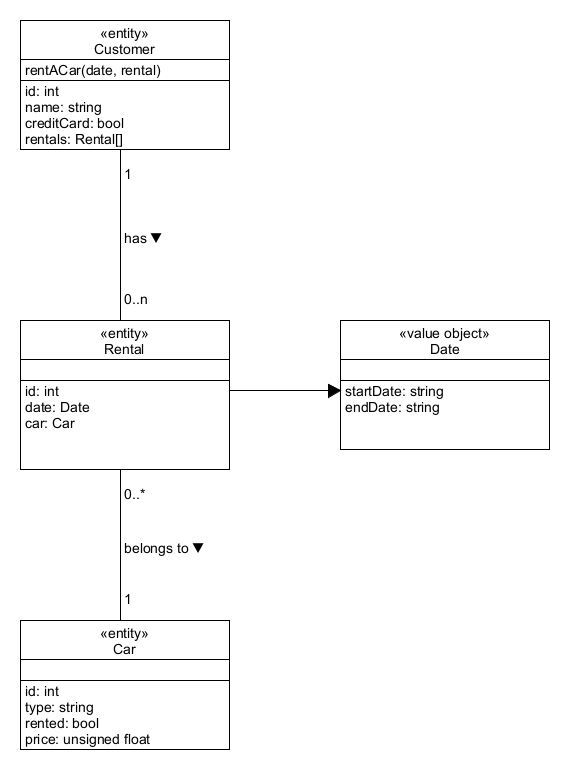
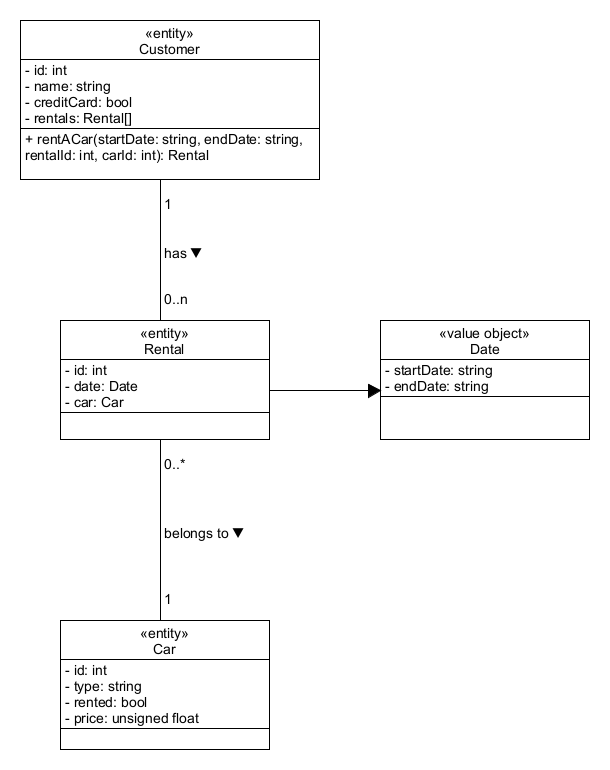
Update HelloWorld task description and add use case diagram for CarRental tabellen in 3.2 eingefügt

diff --git a/chapters/2_golang_tasks/3.2_design_of_data_and_functionality.tex b/chapters/2_golang_tasks/3.2_design_of_data_and_functionality.tex
@@ -54,37 +54,228 @@ The following attributes are added to the entities:
     \label{fig:extendedEntityDiagram}
 \end{figure}
 
-%//TODO Signatur anpassen, wird funktionlität benötigt?
 \subsubsection*{Adding the Functionality as a Method}
-The chosen signature of the funcion is \texttt{rentACar(date, rental)}.
+The chosen signature of the funcion is \texttt{rentACar(startDate: string, endDate: string, rentalId: int, carId: int): Rental}.
+
 The method works as follows:
-\begin{enumerate}
-    \item The function checks, if the credit card is valid. If not, the function aborts.
-    \item The date object is created with the given start and end date and is given to the function.
-    \item The given rental object is assigned according to the chosen car / rental.
-    \item The algorithm checks, if the car assigned to the rental is available. If not, the function aborts.
-    \item The car is marked as rented.
-    \item The date object is assigned to the rental.
-    \item The rental object is linked to the customer.
-    \item All changes are saved to the objects.
-\end{enumerate}
+First, the function checks if the credit card of the customer is valid.
+If this is not the case, the function aborts.
+Then, the date object is created with the given start and end date.
+The algorithm checks if the car is available for the given time period.
+If this is not the case, the function aborts.
+A new rental object is created with an unique id and is assigned the date object.
+The car is marked as rented and linked to the rental object.
+The rental object is linked to the customer.
+In the end, all changes are saved to the objects and the rental object is returned.
 
 \subsection{Excercise CarRentalExampleData}
 \label{sec:exercise_car_rental_example_data}
 \subsubsection*{Analyze Alice's Rental Request}
-Yes, the request is successful for the following reasons:
-%//TODO Fließtext statt Stichpunktef
-\begin{itemize}
-    \item The car exists
-    \item The car is not rented for the specified time period
-    \item Alice is not registered yet, but will be added to the customers table
-\end{itemize}
+Yes, the request is successful for a number of reasons.
+
+First, the car exists so it can be rented.
+Next, the car is not rented for the specified time period.
+The only rental of the car is from 1.3.00 to 15.03.2000 by Max.
+Finally, Alice is not registered yet, but will be added to the customers table.
+
 Therefore the request is successful and the car is rented to Alice.
 
 \subsubsection*{Add Further Rentals}
-%//TODO Tabellen aus der Aufgabenstellung übernehmen und mit den hinzugefügten Daten füllen
--- Does this need to be done? --
+This section contains the tables for the customers, cars and rentals as specified in the task sheet.
+The task is to add further rentals to the already existing data.
+One of the rentals should be a non-conflicting rental, the other one should be conflicting.
+
+The following data is added to the tables:
+First, Rental6 is added to the rentals table in \autoref{tab:carRentalExampleDataRentals}.
+It is a non-conflicting rental of Car1 by Max from 1.1.05 to 2.2.05.
+Next, Rental7 is added to the rentals table.
+It is a conflicting rental of Car5 by Bob from 3.1.00 to 10.1.00.
+Due to this rental overlapping with Rental5, Rental7 is not a valid rental.
+
+\begin{table}[H]
+    \centering
+    \caption{Customers Table}
+    \label{tab:carRentalExampleDataCustomers}
+    \begin{tabular}{|p{2cm}|p{2cm}|}
+        \hline
+        \multicolumn{2}{|c|}{\textbf{Customers}} \\
+        \hline
+        \textbf{ID} & \textbf{Name} \\
+        \hline
+        Cus1 & Max \\
+        Cus2 & Bob \\
+        Cus3 & Simon \\
+        \hline
+    \end{tabular}
+\end{table}
+
+\begin{table}[H]
+    \centering
+    \caption{Cars Table}
+    \label{tab:carRentalExampleDataCars}
+    \begin{tabular}{|p{2cm}|p{3cm}|}
+        \hline
+        \multicolumn{2}{|c|}{\textbf{Cars}} \\
+        \hline
+        \textbf{ID} & \textbf{Type} \\
+        \hline
+        Car1 & VW ID.2 \\
+        Car2 & Tesla Model 3 \\
+        Car3 & Seat Leon \\
+        Car4 & Fiat500e \\
+        Car5 & Audi A3 \\
+        \hline
+    \end{tabular}
+\end{table}
+
+\begin{table}[H]
+    \centering
+    \caption{Rentals Table}    
+    \label{tab:carRentalExampleDataRentals}
+    \begin{tabular}{|p{2cm}|p{2cm}|p{2cm}|p{2cm}|p{3cm}|}
+        \hline
+        \multicolumn{5}{|c|}{\textbf{Rentals}} \\
+        \hline
+        \textbf{ID} & \textbf{StartDate} & \textbf{EndDate} & \textbf{CardID} & \textbf{CustomerID} \\        
+        \hline
+        Rental1 & 1.3.00 & 15.3.00 & Car1 & Cus1 \\
+        Rental2 & 3.2.00 & 5.2.00 & Car2 & Cus2 \\
+        Rental3 & 5.1.00 & 1.6.00 & Car3 & Cus2 \\
+        Rental4 & 7.2.00 & 25.3.00 & Car4 & Cus3 \\
+        Rental5 & 3.1.00 & 5.2.00 & Car5 & Cus3 \\
+        Rental6 & 1.1.05 & 2.2.05 & Car1 & Cus1 \\
+        Rental7 & 3.1.00 & 10.1.00 & Car5 & Cus2 \\
+        \hline
+    \end{tabular}
+\end{table}
 
 \subsubsection*{Write YAML Code}
-%//TODO Tabelle von oben übernehmen und in YAML umschreiben
--- Still needs to be done --
+The following YAML-code represents the the data from the tables above.
+YAML is a human-readable data serialization language, similar to JSON.
+The notation specifies an object and the according attributes, storing the data in a key-value format.
+
+\begin{lstlisting}[
+    style=kit-cm,
+    caption={YAML Code representing the Customers Table},
+    label={lst:carRentalExampleDataYaml}
+]
+- id:   Cus1
+  name: Max
+
+- id:   Cus2
+  name: Bob
+  
+- id:   Cus3
+  name: Simon
+\end{lstlisting}
+
+\begin{lstlisting}[
+    style=kit-cm,
+    caption={YAML Code representing the Cars Table},
+    label={lst:carRentalExampleDataYamlCars}
+]
+- id:   Car1
+  type: VW ID2
+
+- id:   Car2
+  type: Tesla Model 3
+
+- id:   Car3
+  type: Seat Leon
+
+- id:   Car4
+  type: Fiat 500e
+
+- id:   Car5
+  type: Audi A3
+\end{lstlisting}
+
+\begin{lstlisting}[
+    style=kit-cm,
+    caption={YAML Code representing the Rentals Table},
+    label={lst:carRentalExampleDataYamlRentals}
+]
+-   id: Rental1
+    startdate:
+        day:    1
+        month:  3
+        year:   2000
+    enddate:
+        day:    15
+        month:  3
+        year:   2000
+    carid:      Car1
+    customerid: Cus1
+
+-   id:         Rental2
+    startdate:
+        day:    3
+        month:  2
+        year:   2000
+    enddate:
+        day:    5
+        month:  2
+        year:   2000
+    carid:      Car2
+    customerid: Cus2
+
+-   id:         Rental3
+    startdate:
+        day:    5
+        month:  1
+        year:   2000
+    enddate:
+        day:    1
+        month:  6
+        year:   2000
+    carid:      Car3
+    customerid: Cus2
+
+-   id:         Rental4
+    startdate:
+        day:    7
+        month:  2
+        year:   2000
+    enddate:
+        day:    25
+        month:  3
+        year:   2000
+    carid:      Car4
+    customerid: Cus3
+
+-   id:         Rental5
+    startdate:
+        day:    3
+        month:  1
+        year:   2000
+    enddate:
+        day:    5
+        month:  2
+        year:   2000
+    carid:      Car5
+    customerid: Cus3
+
+-   id:         Rental6
+    startdate:
+        day:    1
+        month:  1
+        year:   2005
+    enddate:
+        day:    1
+        month:  1
+        year:   2000
+    carid:      Car6
+    customerid: Cus4
+
+-   id:         Rental7
+    startdate:
+        day:    3
+        month:  1
+        year:   2000
+    enddate:
+        day:    5
+        month:  2
+        year:   2000
+    carid:      Car5
+    customerid: Cus4
+\end{lstlisting}

diff --git a/chapters/2_golang_tasks/3.1_requirements_analysis.tex b/chapters/2_golang_tasks/3.1_requirements_analysis.tex
@@ -1,11 +1,16 @@
 \subsection{Excercise UseCaseDiagram CarRental}
 \label{sec:exercise_use_case_diagram_car_rental}
+The general functionality of the application CarRental is outlined by Alice's Car Rental story.
+It provides a general overview of the application and the user flow of registering and renting a car.
+
+By using the story, the use cases and actors can be derived.
+The following tasks are based on the story and help deriving the use cases, actors and services modelled in the use case diagram.
+
 \subsubsection*{Derive Use Cases and Actors}
 Goal of this task is to find four use cases and one actor according to the given story "Alice's Car Rental".
 
-% //TODO: rausfinden, wie man aus der Aufgabenstellung zitiert
 % //TODO: Herleitung der vier Use Cases beschreiben
-Listing \autoref{lst:car_rental_use_case_1} was derived from the story given in ... .
+\autoref{lst:car_rental_use_case_1} was derived from the story given in ... .
 
 \begin{lstlisting}[
     caption={Use Case 1: "Rent a Car"},
@@ -163,7 +168,7 @@ The installation of the standalone version of UMLet is carried out as follows:
     \item Run the executable file \texttt{umlet.sh} in the extracted folder
 \end{enumerate}
 
-A screendump of the folder structure of the extracted archive is shown in figure \autoref{fig:umlet_folder_structure}.
+A screendump of the folder structure of the extracted archive is shown in \autoref{fig:umlet_folder_structure}.
 \begin{figure}
     \centering
     \includegraphics[width=0.8\textwidth]{figures/goLang/carRental/carRental_umletInstallation.png}
@@ -171,9 +176,22 @@ A screendump of the folder structure of the extracted archive is shown in figure
     \label{fig:umlet_folder_structure}
 \end{figure}
 
-The use case diagram is shown in figure \autoref{fig:car_rental_use_case_diagram}.
+The use case diagram is shown in \autoref{fig:car_rental_use_case_diagram}.
 
-% //TODO services erklären und auf use case diagramm eingehen
+It uses so called services to abstract the implementation of the application.
+By providing services, the implementation of the application can be changed without changing the use cases.
+
+The registration service is used to register a customer.
+It provides the user interface and structures to interact with the customer.
+The registration service itself uses the authentification service to provide the customer with a secure way to authenticate himself, for example by two-factor authentification.
+It also uses the cancellation service to cancel the registration if the customer wants to do so.
+
+The rental service is used to rent a car.
+It interacts with the location service, providing the location of the customer and the cars and displaying it on a map.
+It also uses the cancellation service to cancel the rental if the customer wants to do so.
+The car usage service is used to provide the customer with information about the car, for example if the car is available, the current fuel level or the current mileage.
+
+The services' interactions are displayed in the use case diagram by means of the arrows and the according labels.
 \begin{figure}[H]
     \centering
     \includegraphics[width=0.8\textwidth]{figures/goLang/carRental/carRental_umlDiagram.png}
@@ -184,16 +202,25 @@ The use case diagram is shown in figure \autoref{fig:car_rental_use_case_diagram
 \subsection{Excercise UseCase RentACar}
 \label{sec:exercise_use_case_rent_a_car}
 \subsubsection*{Alice's Car Rental}
-% //TODO: Einleitung schreiben
-% //TODO: Alternative Flows auflisten
+This task aims to complete the use-case story "Rent a Car" for Alice.
+This is done by adding the given data from the story to the use-case story.
+
+The completed use-case story is shown in \autoref{lst:alices_car_rental_use_case_1}.
+
 \begin{lstlisting}[
-    style=kit-cm,
-    caption={Alice's Version of Use Case 1},
-    label={lst:alices_car_rental_use_case_1},
+style=kit-cm,
+caption={Alice's Version of Use Case 1},
+label={lst:alices_car_rental_use_case_1},
 ]
-    1. Alice calls the application CarRental.
-    2. Alice enters the 01.01.00 as a start date and 02.02.00 as the end date as the rental period
-    3. The system shows a list with the cars which are available at the selected rental period
-    4. Alice selects a VW ID.2
-    5. The system shows a rental confirmation and stores the rental
+1. Alice calls the application CarRental.
+2. Alice enters the 01.01.00 as a start date and 02.02.00 as the end date as the rental period
+3. The system shows a list with the cars which are available at the selected rental period
+4. Alice selects a VW ID.2
+5. The system shows a rental confirmation and stores the rental
+
+Alternative flows:
+3a. The VW ID.2 is not available at the selected time interval
+    3a1. The system shows a message that the VW ID.2 is not available at the selected time interval and the flow continues from step 2 or terminates
+4a. Alice does not want to rent the VW ID.2
+    4a1. The flow terminates
 \end{lstlisting}

diff --git a/chapters/2_golang_tasks/2.3_basic_hello_world_program.tex b/chapters/2_golang_tasks/2.3_basic_hello_world_program.tex
@@ -1,7 +1,11 @@
 \subsection{Excercise HelloWorld}
 \label{sec:excercise_hello_world}
-% //TODO Einleitung schreiben
-% //TODO Listings style updaten 
+HelloWorld is a time honored tradition in the world of programming.
+It provides a simple way to get started with a new programming language, helping to understand basic syntax and structure.
+The goal of this task is to run and understand the given HelloWorld program.
+
+This helps building a basic foundation of the Golang programming language and helps making sure the enviroment is set up correctly.
+
 \subsubsection*{Run Hello World}
 After following the instruction in \cite{MS-GODEV}, the code is executed by running \texttt{go run main.go} in the terminal.
 The code was executed twice: The first time the given code was executed leading to the output shown in \autoref{fig:screendump_helloWorld_basicExecution}.
